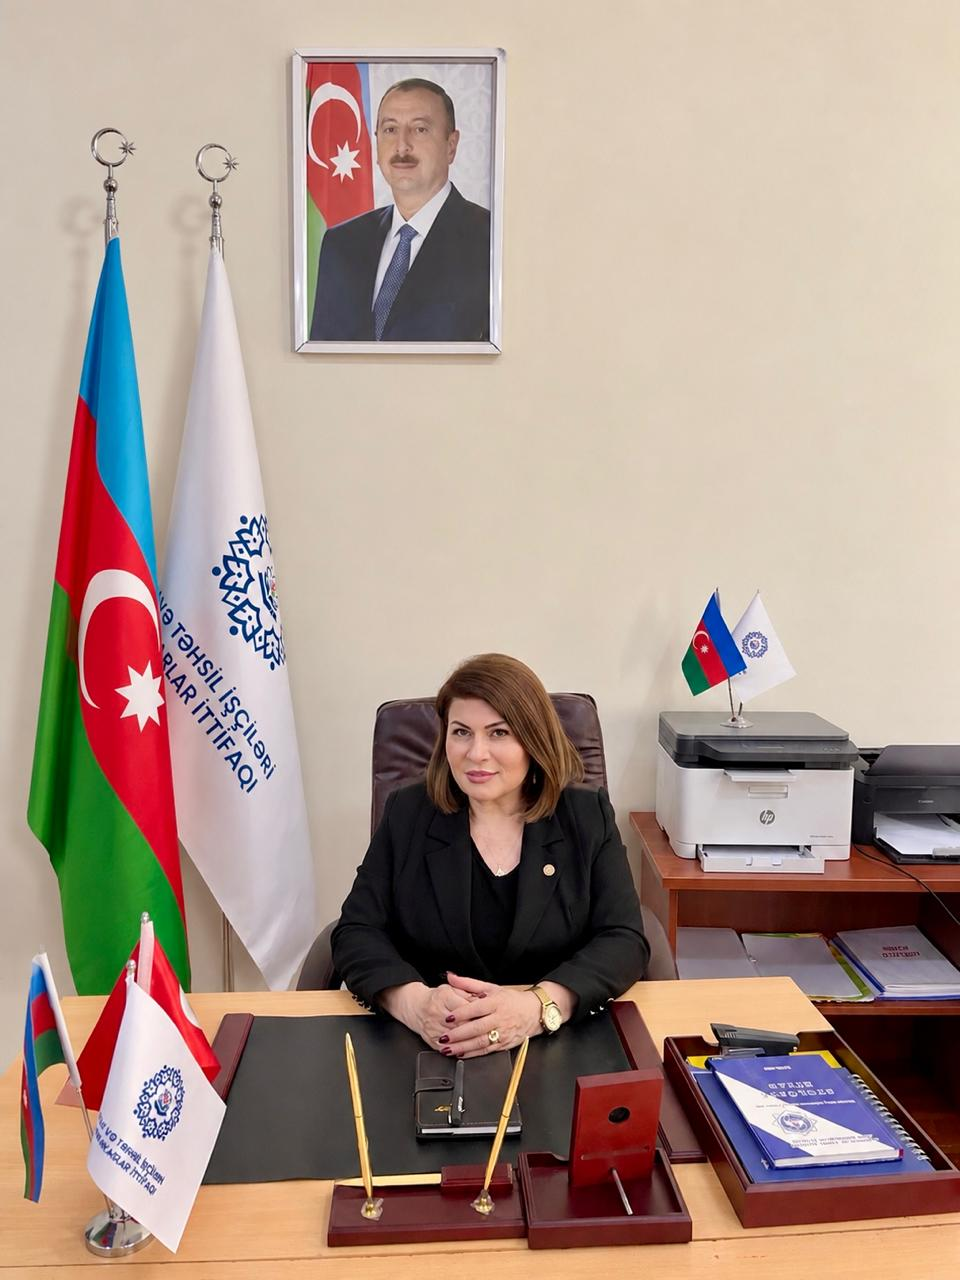
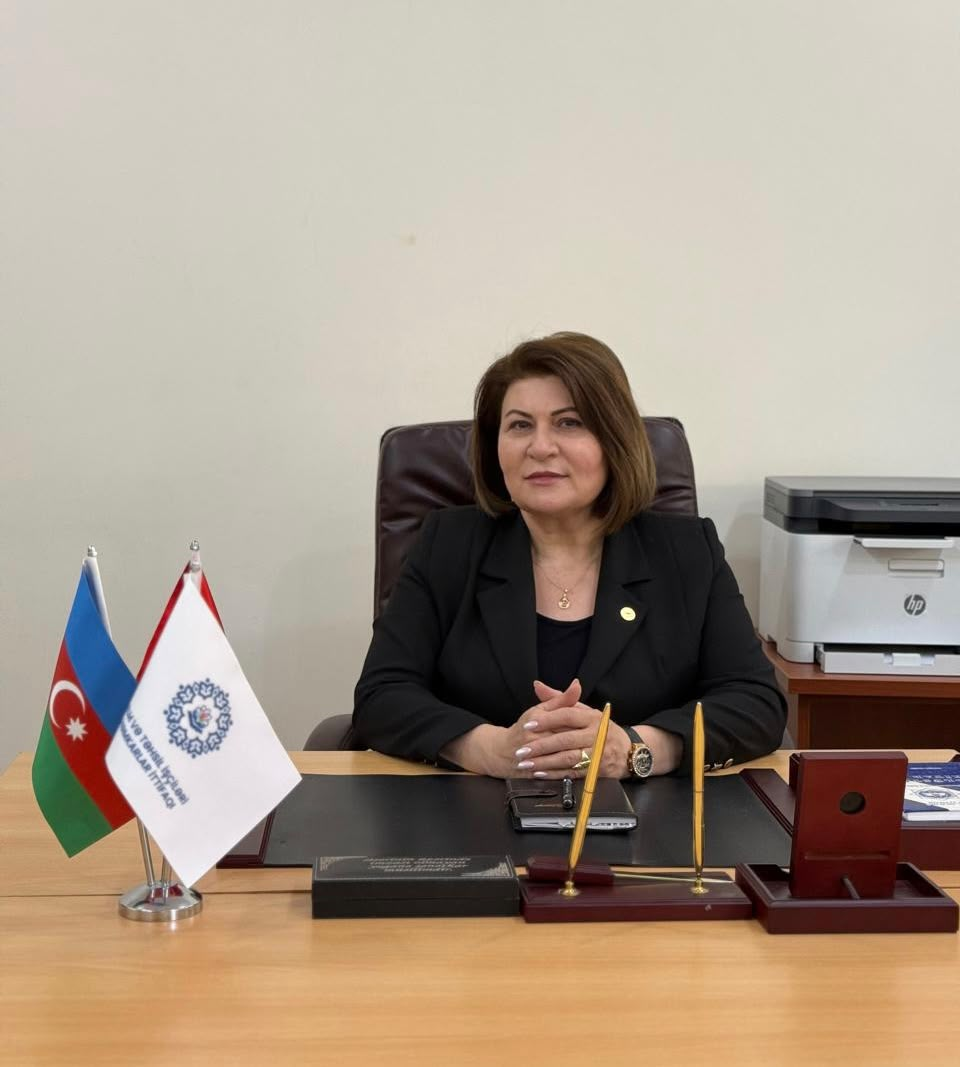
feat(staff): update Trade Union Chair (Aygün Musayeva) official photo

diff --git a/style.css b/style.css
@@ -3460,8 +3460,9 @@ body.dark-mode .sun-and-moon>.moon>circle {
   transform: scale(1.05);
 }
 
+.tree-card-grid-block[data-person-id="27"] .tree-grid-avatar-wrap img,
 .tree-dept-card[data-person-id="27"] .tree-dept-avatar img {
-  object-position: center 15%;
+  object-position: center 30%;
   transform: scale(1.05);
 }
 
@@ -4705,7 +4706,7 @@ body.dark-mode .sun-and-moon>.moon>circle {
 }
 
 .person-detail-photo-frame.aygun-photo img {
-  object-position: center 15%;
+  object-position: center 30%;
 }
 
 .person-detail-photo-frame.aygun-photo:hover img {

diff --git a/script.js b/script.js
@@ -3201,7 +3201,7 @@ const staffData = {
       role_az: "Həmkarlar İttifaqı Komitəsinin sədri",
       role_en: "Chair of Trade Union Committee",
       role_ru: "Председатель Профсоюзного комитета",
-      img: "hemkarx.jpeg",
+      img: "hemkar.jpeg",
     },
     {
       id: "22",
